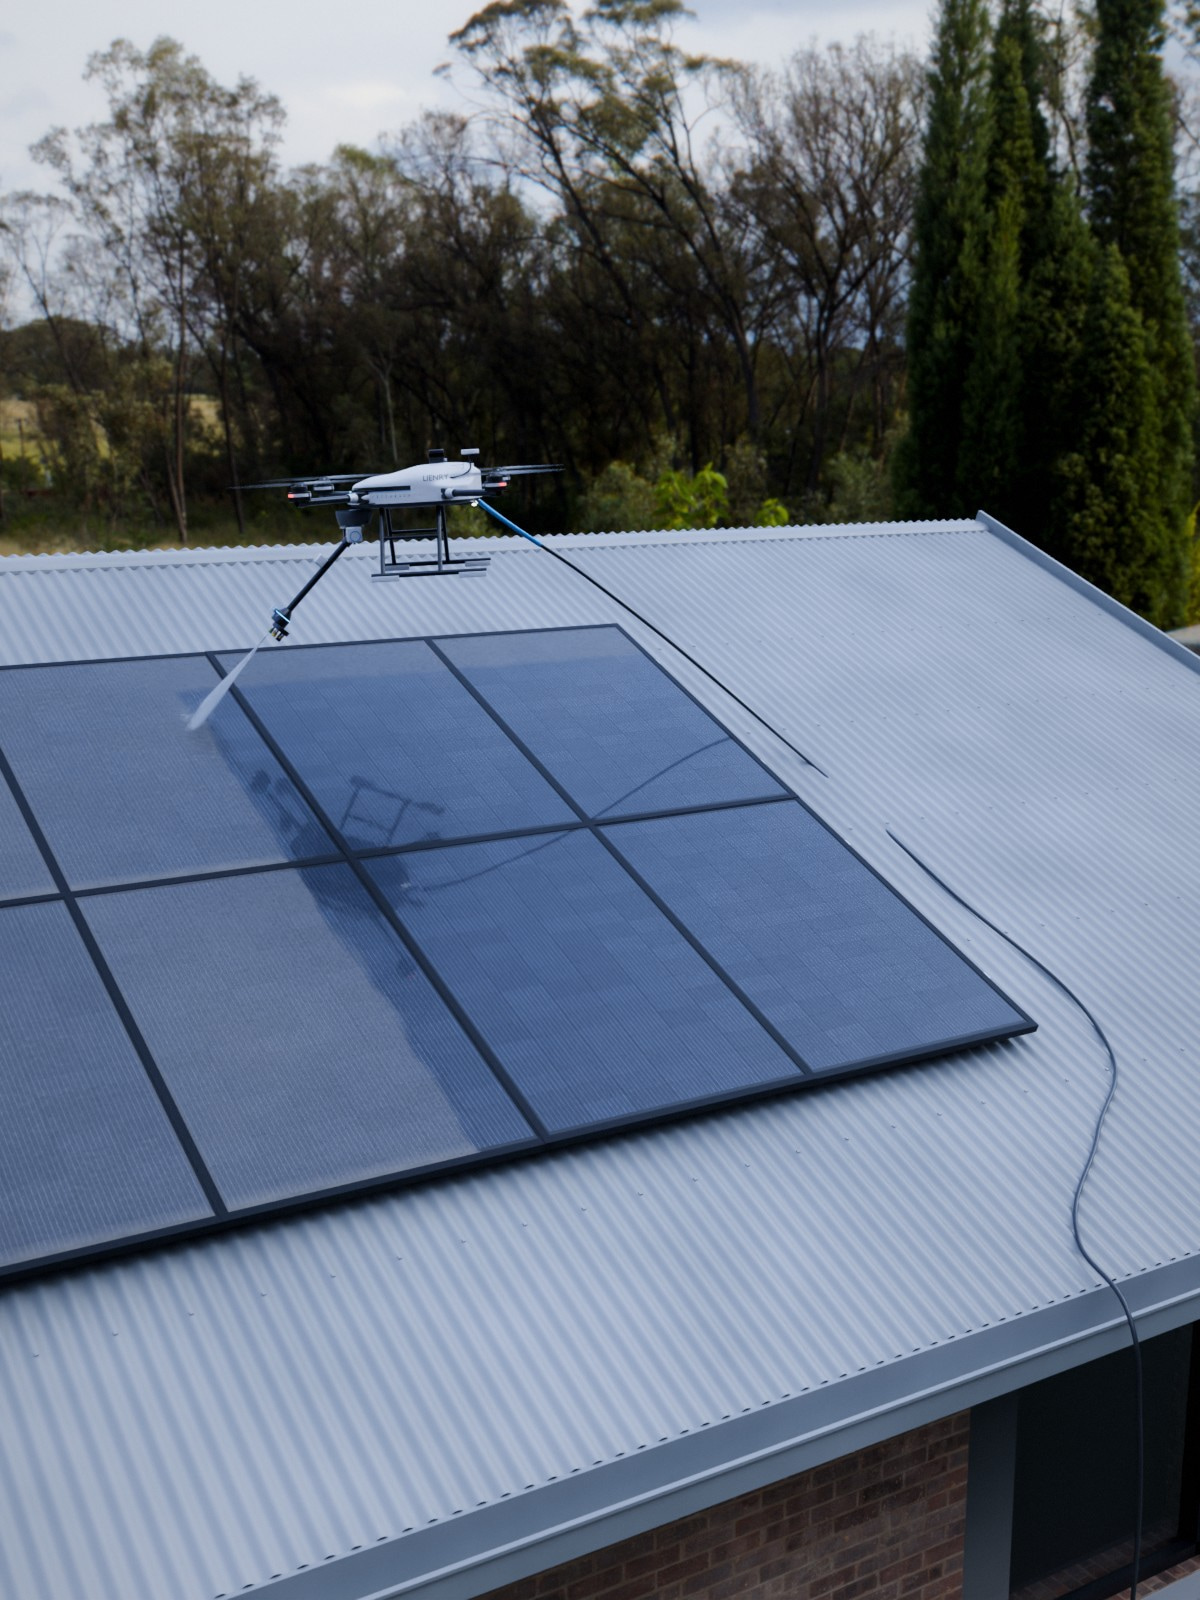
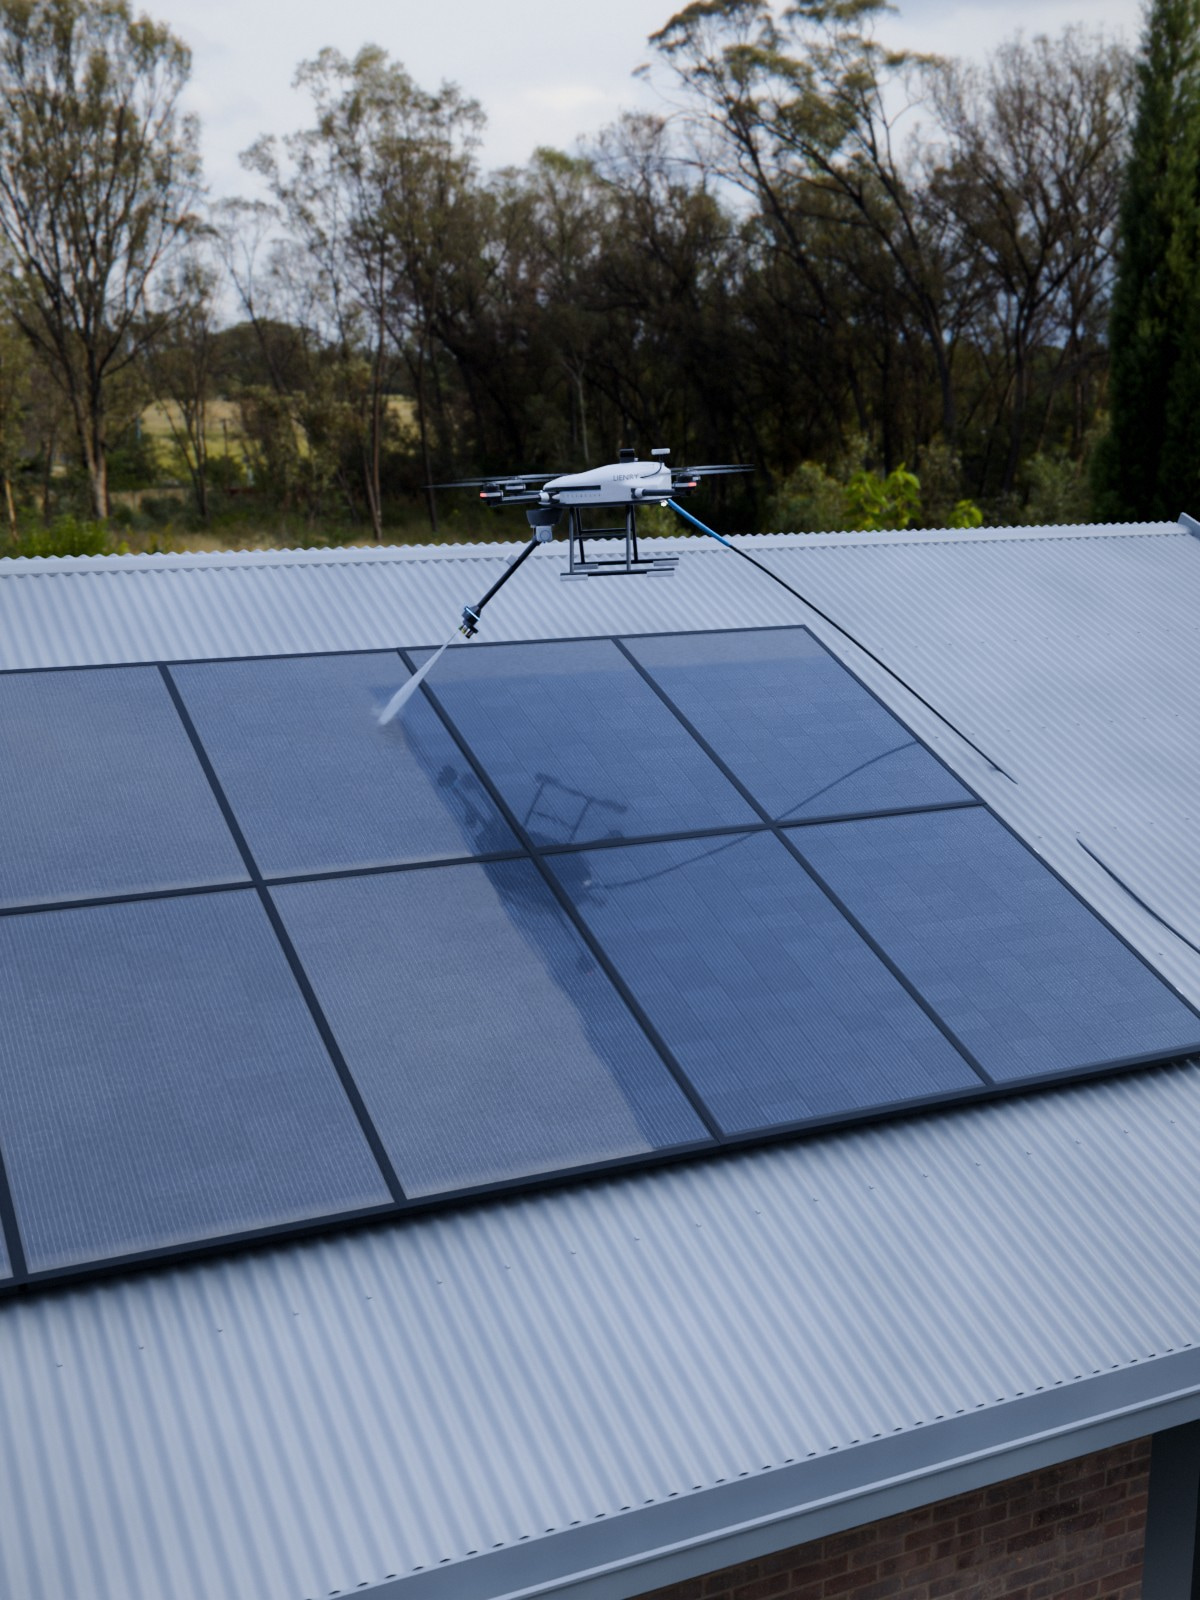
Stills: the rooftop panels again with the drone centred, so the home card's resting slice holds it; alt text to match
Claude-Session: https://claude.ai/code/session_014cPnYtJdmNi3G1jESrTKrF

diff --git a/src/content/homes.ts b/src/content/homes.ts
@@ -72,7 +72,7 @@ export const landlordStory = {
   pictures: {
     before: { id: "y1-story-before", alt: "The house before its clean, the Lienry dock on the patio near the garden tap, its lids closed over the drone", chip: "Before the clean", position: "50% 78%" },
     driveway: { id: "y3-story-driveway", alt: "The Lienry drone washing the brick path in front of the house", chip: "Washing the driveway", position: "50% 50%" },
-    panels: { id: "y2-story-panels", alt: "The drone washing the rooftop solar panels, half the array clean and wet", chip: "Washing the solar panels", position: "50% 50%" },
+    panels: { id: "y2-story-panels", alt: "The Lienry drone washing solar panels on a metal roof, the washed half of the array wet and dark", chip: "Washing the solar panels", position: "50% 50%" },
     windows: { id: "p3-house", alt: "The Lienry drone washing the bay window of a house", chip: "Washing the windows", position: "50% 50%" },
     after: { id: "y5-story-done", alt: "The house after its clean, the Lienry dock open on the patio, the drone back inside", chip: "After the clean", position: "50% 78%" },
   },

diff --git a/src/content/solar.ts b/src/content/solar.ts
@@ -25,7 +25,7 @@ export const solarPage = {
       title: "It knows a panel is a panel",
       paragraphs: ["During a clean the drone identifies each material it is cleaning and adjusts its pressure to suit. Water comes through the tether, so the drone never carries it."],
       checks: ["Material identified during the clean", "Pressure set for solar glass", "Adjustable in the app"],
-      image: { id: "y2-story-panels", alt: "The drone over rooftop panels, half the array already clean", position: "50% 50%", positionMd: "50% 45%" },
+      image: { id: "y2-story-panels", alt: "The Lienry drone washing solar panels on a metal roof, the washed half of the array wet and dark", position: "50% 40%", positionMd: "50% 45%" },
       panel: { id: "right-pressure" as const, corner: "end" as const, solarFirst: true },
     },
     {

diff --git a/src/content/home.ts b/src/content/home.ts
@@ -151,7 +151,7 @@ export const benefits = {
       icon: "record",
       title: "Every clean on record",
       body: "The desktop software shows what was cleaned, when, and what is due next.",
-      image: { id: "y2-story-panels", alt: "The drone washing rooftop solar panels, half the array clean and wet", position: "50% 45%" },
+      image: { id: "y2-story-panels", alt: "The Lienry drone washing solar panels on a metal roof, the washed half of the array wet and dark", position: "50% 45%" },
     },
   ],
 };
